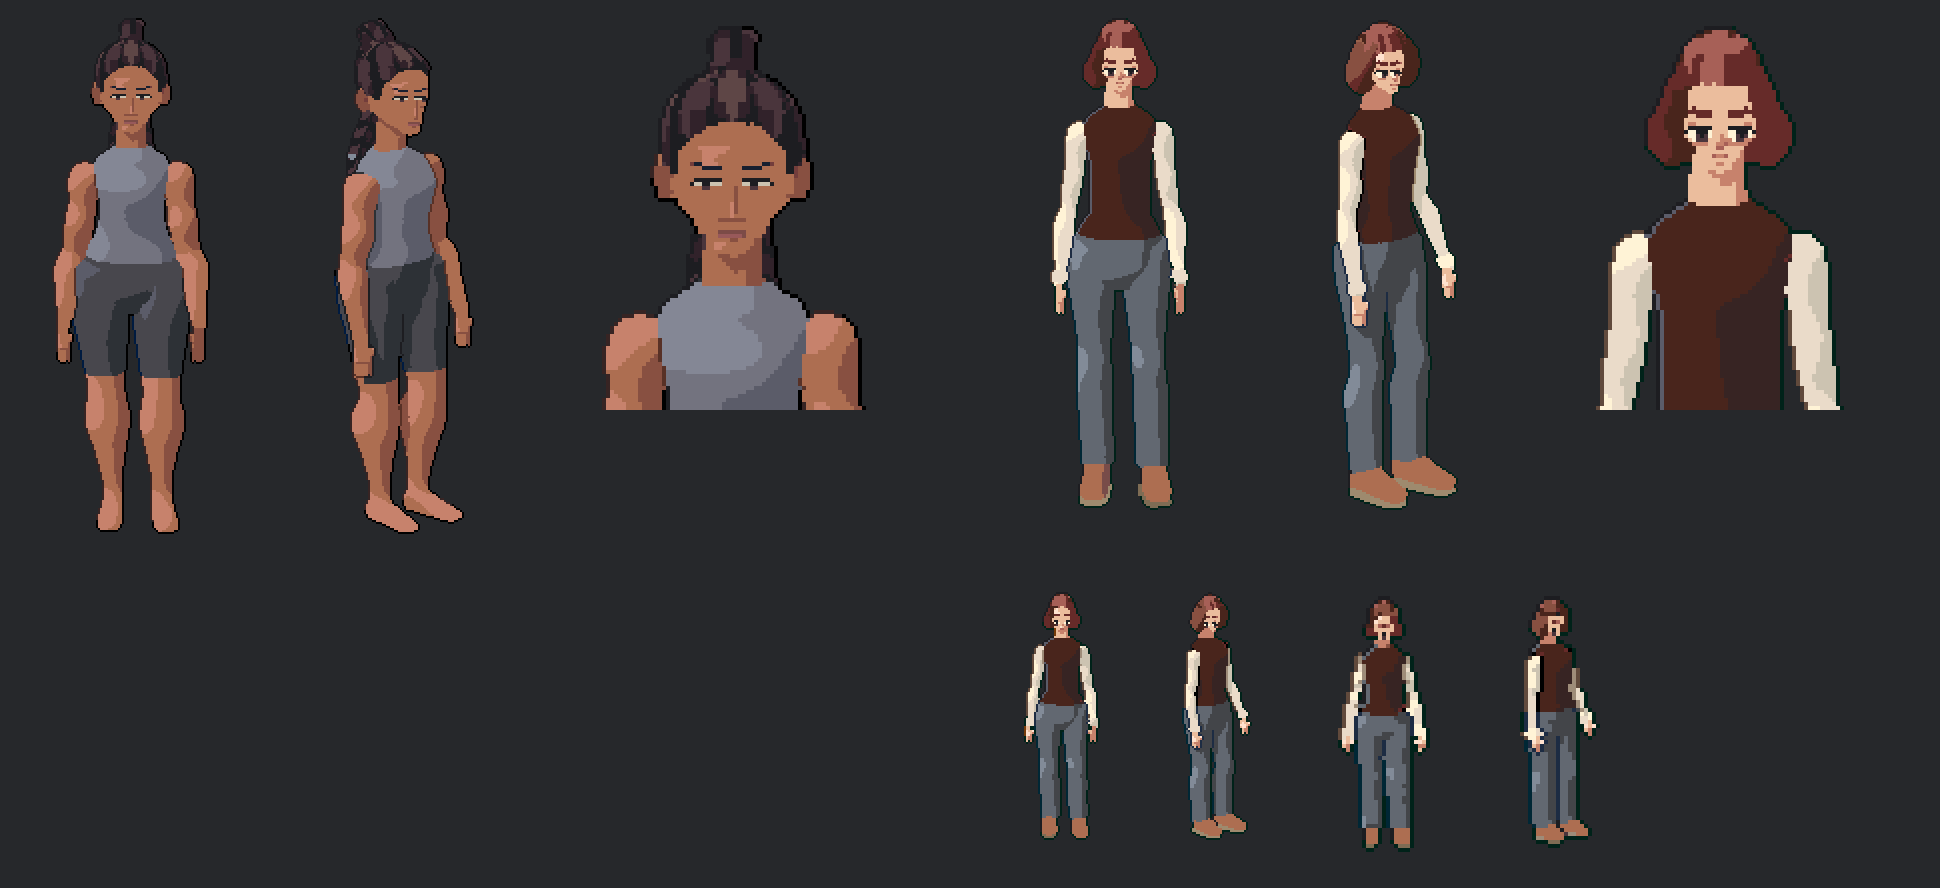
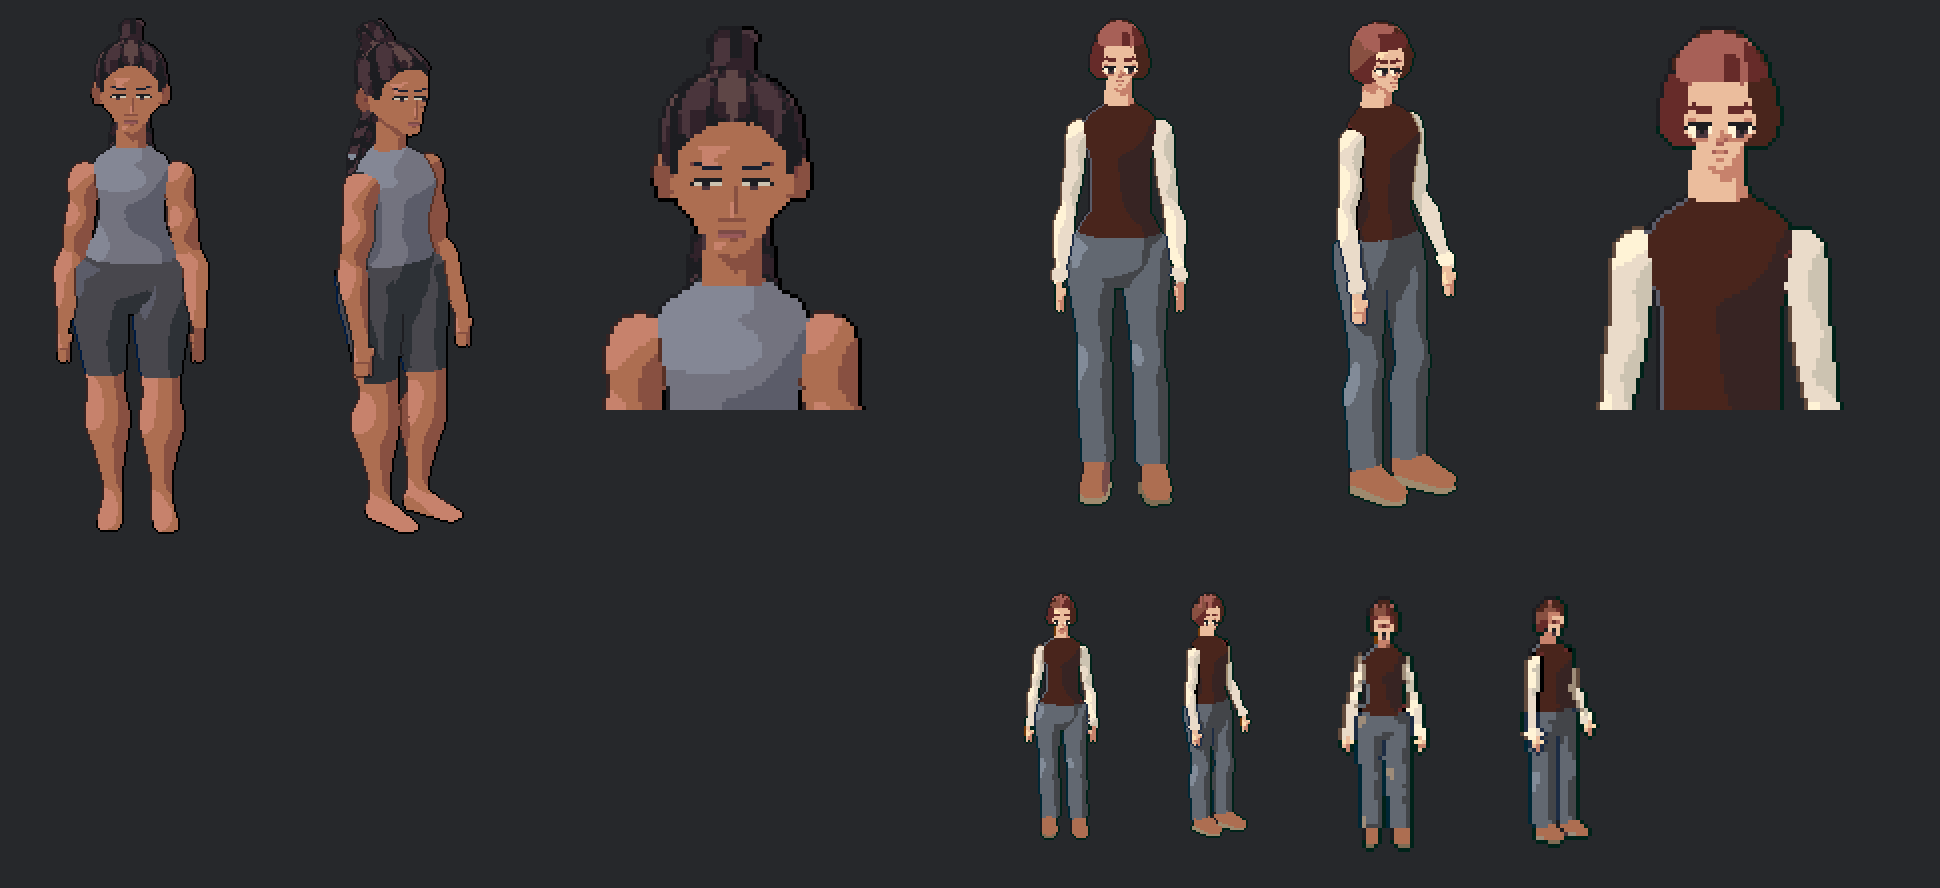
docs(superpowers): the showcase with the round bob, skinPeach and the smaller iris
Claude-Session: https://claude.ai/code/session_01HNdX7M1ZqCb1rVMkS8MFhA

diff --git a/extensions/figures/scripts/painter-look-study.ts b/extensions/figures/scripts/painter-look-study.ts
@@ -95,18 +95,18 @@ const FRINGE: Piece = {
       [0.7, 0.45],
       [1.1, 0.3],
     ],
-    width: 0.75,
+    width: 0.8,
     length: 1,
-    count: 9,
-    rope: { r: 0.15 },
+    count: 13,
+    rope: { r: 0.12 },
   },
 } as Piece
 const shell = (name: string): Piece => HAIR_STYLES[name].pieces[0]
 /** `bobFull` with a brow-length fringe: the library's shell and the painter's own fringe piece. */
 const BOB_FULL_FRINGE: HairStyle = {
-  about: 'bobFull with a fringe',
+  about: 'bobRound with a fringe',
   finish: 'smooth',
-  pieces: [shell('bobFull'), FRINGE],
+  pieces: [shell('bobRound'), FRINGE],
 }
 
 /** The skin: a swatch (and the least share of the face in its lightest step, `Material.face.light`, if one is given). */
@@ -147,15 +147,15 @@ const gaited =
   (over: object): Look['patch'] =>
   (def) => ({ ...def, gaitOverrides: { ...def.gaitOverrides, ...over } as CharacterDef['gaitOverrides'] })
 
-/** Every look option on at once: the full bob and its fringe, the fair skin and its lit face, the eyes kept, a wider stand, dark ink. */
+/** Every option the showcase uses at once: the round bob and its fringe, the peach skin, the eyes kept and full, a wider stand, dark ink. */
 export const FULL: Look = {
   label: 'the study figure, every option on',
-  note: 'bobFull + fringe, skinFair + face.light .6, eyes keep, standTrack 1, ink #002219',
+  note: 'bobRound + fringe, skinPeach, eyes keep + full, standTrack 1, ink #002219 (face.light off: it makes a mask at density 4 and up)',
   style: BOB_FULL_FRINGE,
   paint: { ink: '#002219' },
   patch: (def) =>
     gaited({ standTrack: 1 })?.(
-      eyed({ keep: true, full: true })?.(skinned('skinFair', 0.6)?.(def) ?? def) ?? def,
+      eyed({ keep: true, full: true })?.(skinned('skinPeach')?.(def) ?? def) ?? def,
     ) ?? def,
 }
 

diff --git a/extensions/character-kit/scripts/heroine-study.ts b/extensions/character-kit/scripts/heroine-study.ts
@@ -43,16 +43,16 @@ const FRINGE = {
       [0.7, 0.45],
       [1.1, 0.3],
     ],
-    width: 0.75,
+    width: 0.8,
     length: 1,
-    count: 9,
-    rope: { r: 0.15 },
+    count: 13,
+    rope: { r: 0.12 },
   },
 }
 const HAIR: HairStyle = {
-  about: 'bobFull with a fringe',
+  about: 'bobRound with a fringe',
   finish: 'smooth',
-  pieces: [...(HAIR_STYLES.bobFull?.pieces ?? []), FRINGE as never],
+  pieces: [...(HAIR_STYLES.bobRound?.pieces ?? []), FRINGE as never],
 }
 /** The study figure: the builder's base woman set to the look spec (7 heads, a slim adult, a small oval face with large almond eyes). */
 const WOMAN = BASE[1]?.def as CharacterDef
@@ -60,7 +60,7 @@ const heroine = (full: boolean, body: Record<string, number> = {}): CharacterDef
   ...WOMAN,
   id: 'heroine',
   name: 'HEROINE',
-  skin: 'skinFair',
+  skin: 'skinPeach',
   sliders: {
     ...WOMAN.sliders,
     height: 162,
@@ -99,7 +99,7 @@ const heroine = (full: boolean, body: Record<string, number> = {}): CharacterDef
   gaitOverrides: { armOut: 0.03, standOut: 0.03, standTrack: 1 } as NonNullable<
     CharacterDef['gaitOverrides']
   >,
-  swatches: { ...WOMAN.swatches, ...CLOTH, skinFair: SWATCHES.skinFair as Material },
+  swatches: { ...WOMAN.swatches, ...CLOTH, skinPeach: SWATCHES.skinPeach as Material },
   // A cream shirt (a collar, long sleeves with cuffs), an oxblood waistcoat over it (a sleeveless knit shell standing a texel off), slim jeans, ankle boots.
   outfits: {
     street: [
